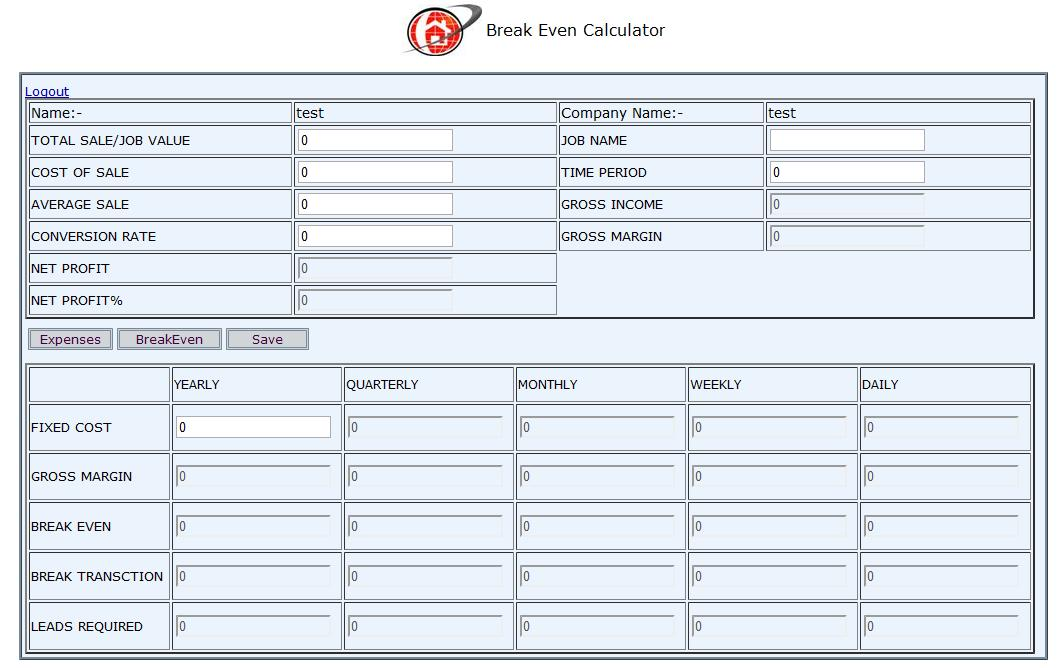
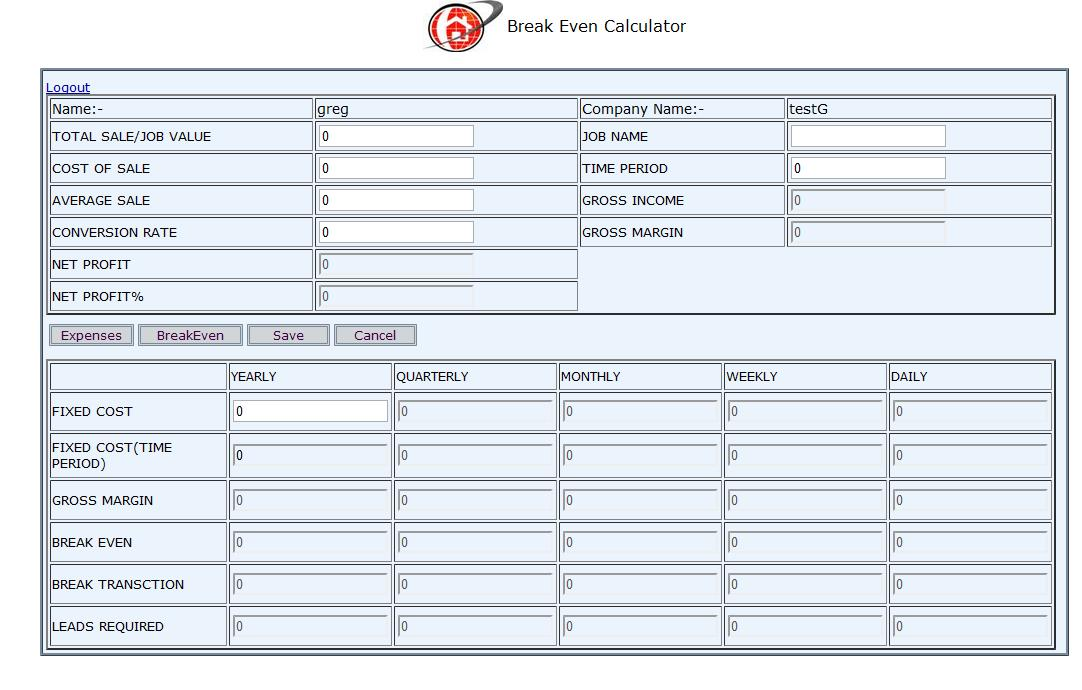
updated with changes

Changed region(s): [[0.0, 0.0, 0.9953, 0.988]]

diff --git a/BreakEvenCalc/Help.html b/BreakEvenCalc/Help.html
@@ -23,7 +23,7 @@ body{
 <body> <form>
 <h1>Brek Even Calculator Help</h1>
 
-<h3>User Type : Admin User</h3>
+<h3>User Type : Administrator User</h3>
   <center><img src="images/adminlogin.jpg"  alt="" /> </center>
 
 <h4> Enter Username ,Password,CompanyName. It will display list of records.	</h4>
@@ -34,7 +34,9 @@ body{
 <h2>User Type : Non Admin User</h2>
 <h4>Enter Username, password and Company Name</h4>
  <center><img src="images/userlogintest.jpg"  /></center>
-<h4>Once user is logged in it will display BreakEven calculation page.</h4>
+<h4>Once user is logged in it will display Break Even list created by user.</h4>
+<center><img src="images/userlist.jpg"  /></center>
+<h4>To add new record click on 'Add'. It will display breakeven calculation page</h4>
 <center><img src="images/userlogin.jpg"  /></center>
 <h4>In that page enter the following input fields in numeric form:
 Total Sale,Costof Sale, Average Sale,Conversion Rate,Time Period,JobName </h4>
@@ -45,7 +47,7 @@ Total Sale,Costof Sale, Average Sale,Conversion Rate,Time Period,JobName </h4>
  Then click on Cal total .That will calculate total expense and it will be set in cost field of previous page.</h4>
 <h4> Click on BreakEven button to calculate breakeven for entered value.</h4>
  <center><img src="images/calculationtest.jpg"  /></center>
-<h4>To save record in db click on Save button.</h4>
+<h4>To save record in db click on Save button. User can view record by clicking on record.</h4>
 <center><img src="images/save record.jpg"  /></center>
  <h4>Logout is provided to logout from the application</h4>
 

diff --git a/BreakEvenCalc/application/controllers/breakeven.php b/BreakEvenCalc/application/controllers/breakeven.php
@@ -31,7 +31,16 @@ if(($this->session->userdata('username')==''))redirect('login');
 		$data['results'] = $this->breakeven_model->get_books($config['per_page'],$this->uri->segment(3));}
 	else 
 	{
-		$data['addURL']="calculation";
+		if($this->uri->segment(3)=='')
+		{
+			$data['addURL']="calculation";
+		}
+		else 
+		{
+			$data['addURL']="../../calculation";			
+		}
+		
+		
 		$companyId=$this->session->userdata('companyName');
 		$data['results'] = $this->breakeven_model->get_filter_breakeven($companyId,$config['per_page'],$this->uri->segment(3));
 	}
@@ -57,11 +66,11 @@ else
 			//				echo $row['be_seq'];
 			//$row['be_seq']=redirect('welcome/test');
 			$this->table->add_row(anchor('calculation/input/'.$row['be_seq'],$row['be_seq'], 'Link ' .$row['be_seq']), $row['be_total_sale'], $row['be_cost_sale'], $row['be_fix_cost'],
-			$row['be_avg_sale'],$row['be_conv_rate'],date('d-m-Y', strtotime($row['be_date'])),$row['be_create_by'],$row['be_time_period']); //Add each result row into table, 
+			$row['be_avg_sale'],$row['be_conv_rate'],date('d-m-Y', strtotime($row['be_date'])),$row['be_create_by'],$row['be_time_period'],$row['be_company']); //Add each result row into table, 
 					
 		}
 
-		$this->table->set_heading('RecordID',	'Total Sale',	'Cost of Sale',	'Fix Cost',	'Average Sale',	'Conversion Rate',	'Date',	'Create By','Time Period');
+		$this->table->set_heading('RecordID',	'Total Sale',	'Cost of Sale',	'Fix Cost',	'Average Sale',	'Conversion Rate',	'Date',	'Create By','Time Period','Company');
 		//	$this->table->set_heading('ID', 'Title', 'Author', 'Description');
 
 		//To remove existing data

diff --git a/BreakEvenCalc/application/views/loginview.php b/BreakEvenCalc/application/views/loginview.php
@@ -54,15 +54,15 @@ Break Even Cal
 <tbody>
 <tr>
 <td>Login ID: </td>
-<td><input id="_id0:ID" type="text" name="myusername" maxlength="10" /></td>
+<td><input id="_id0:ID" type="text" name="myusername" maxlength="20" /></td>
 </tr>
 <tr>
 <td> Password: </td>
-<td><input id="_id0:Password" type="password" name="mypassword" value="" maxlength="10" /></td>
+<td><input id="_id0:Password" type="password" name="mypassword" value="" maxlength="20" /></td>
 </tr>
 <tr>
 <td> Company Name: </td>
-<td><input id="_id0:Company" type="text" name="mycompany" maxlength="10" /></td>
+<td><input id="_id0:Company" type="text" name="mycompany" maxlength="20" /></td>
 </tr>
 <tr>
 <td><div></div></td>

diff --git a/BreakEvenCalc/application/views/CalculationForm.php b/BreakEvenCalc/application/views/CalculationForm.php
@@ -832,7 +832,7 @@ function isNumeric(){
 					<tr>
 						<td><span style="font-size: 13px">FIXED COST(TIME PERIOD) </span></td>
 						<td><input id="tpFixedCost" name="tpFixedCost" type="text" readonly="readonly"
-							value="<?php echo $tpFixedcost; ?>" maxlength="10" tabindex="6" /></td>
+							value="<?php echo $tpFixedcost; ?>" style="background-color: #ebf3fd" maxlength="10" tabindex="6" /></td>
 						<td><input id="tpFixedcostQuerterly" name="tpFixedcostQuerterly"
 							type="text" value="<?php echo $tpFixedcostQuerterly; ?>"
 							readonly="readonly" style="background-color: #ebf3fd"

diff --git a/BreakEvenCalc/application/models/calculation_model.php b/BreakEvenCalc/application/models/calculation_model.php
@@ -10,7 +10,7 @@ class calculation_model extends CI_Model{
 		
 		$this->load->database();
 
-		if($user=='adminUser'){
+		if($user=='administrator'){
 			$query = $this->db->get_where('break_even_data',array('be_seq'=>$id));			
 		}
 		else{
